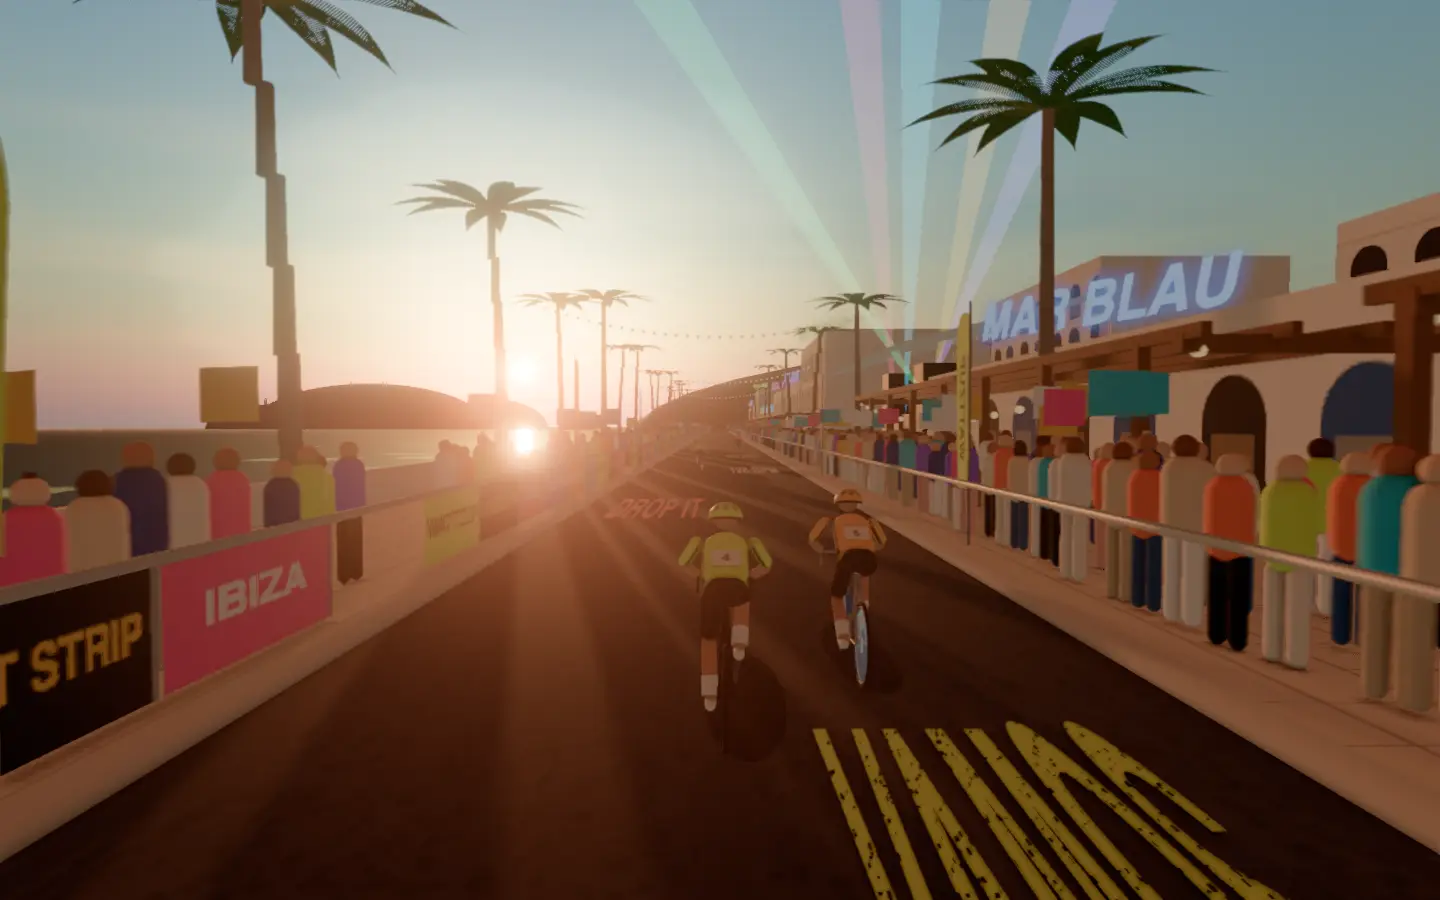
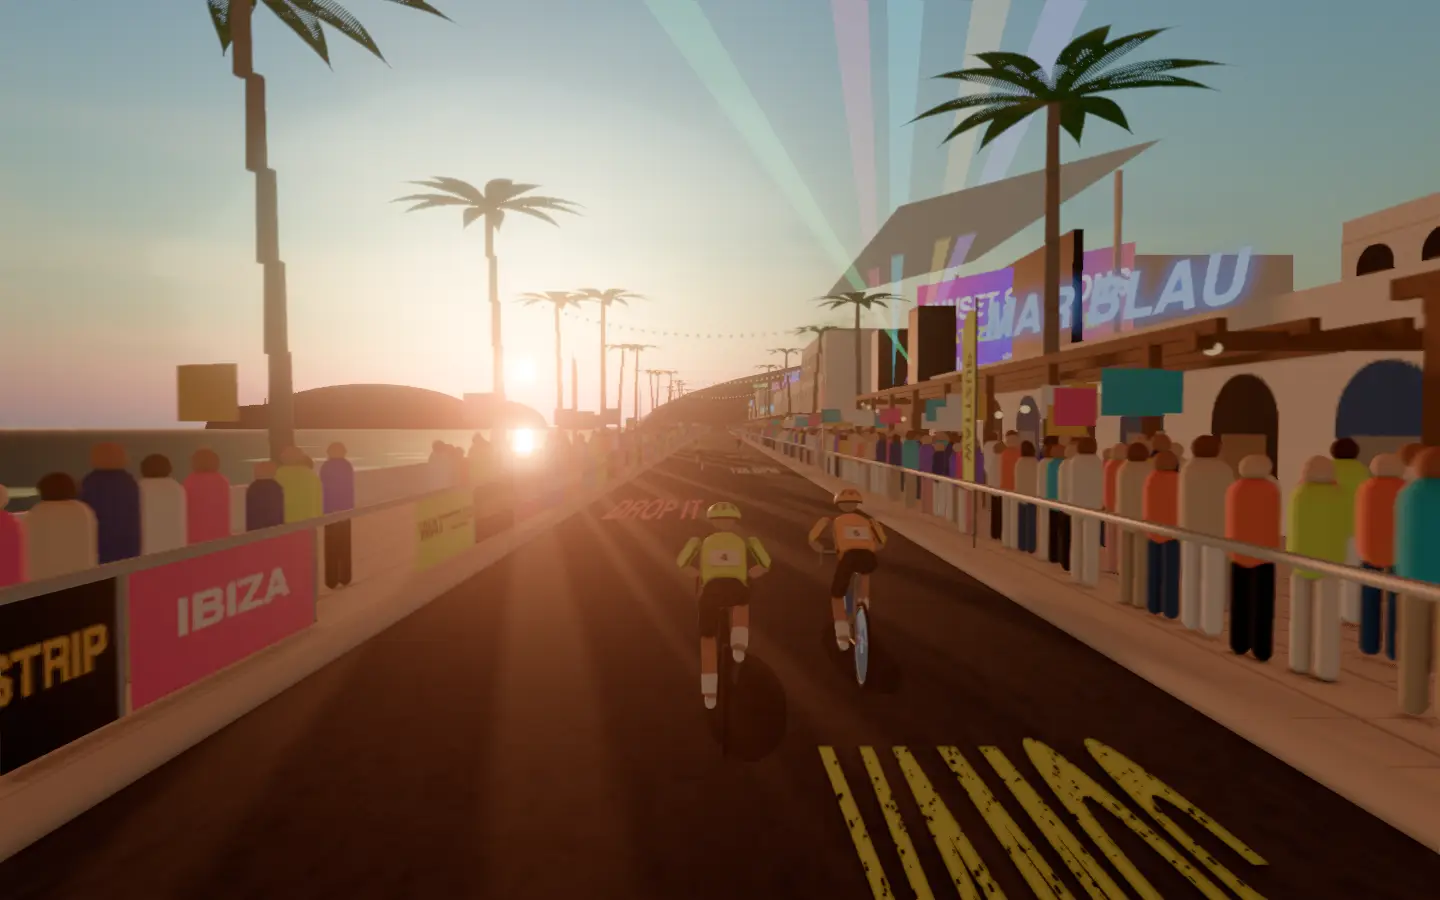
Raise Ibiza's DJ stage over the crowd with its screen

diff --git a/frontend/projects/wattzup/src/app/core/world-ibiza.ts b/frontend/projects/wattzup/src/app/core/world-ibiza.ts
@@ -408,10 +408,12 @@ export class IbizaStreet implements SceneStreet {
     const deck = this.material({ color: 0x8a6440, roughness: 0.8 });
     const black = this.material({ color: 0x18181c, roughness: 0.6 });
     const white = this.material({ color: 0xf6f0e6, roughness: 0.8 });
-    b.box(deck, [12, 1.6, 30], [6, 0.8, 0]);
-    b.box(black, [2, 1.2, 5], [4, 2.2, 0]);
-    for (const z of [-5, 5]) b.box(black, [2.2, 4.4, 2.2], [4, 3.8, z]);
-    for (const z of [-14, 14]) b.box(white, [0.3, 7, 0.3], [11, 5, z]);
+    // A stage raised over the crowd's heads, so the decks show from the road.
+    b.box(deck, [12, 3.4, 30], [6, 1.7, 0]);
+    b.box(black, [2, 1.2, 6], [3, 4, 0]);
+    for (const z of [-6, 6]) b.box(black, [2.4, 6, 2.4], [3.4, 6.4, z]);
+    for (const z of [-14, 14]) b.box(white, [0.3, 12, 0.3], [11, 9.4, z]);
+    b.box(black, [0.6, 9, 19], [11, 9, 0]);
     const g = b.build(this.disposables);
     const sail = new Mesh(
       new PlaneGeometry(14, 30),
@@ -419,19 +421,28 @@ export class IbizaStreet implements SceneStreet {
     );
     this.disposables.push(sail.geometry);
     sail.rotation.set(-Math.PI / 2, -0.25, 0);
-    sail.position.set(6, 8, 0);
+    sail.position.set(6, 15, 0);
     g.add(sail);
     // The DJ, arms up.
     const dj = new Mesh(new SphereGeometry(0.4, 10, 8), this.material({ color: 0xd9a17c }));
     this.disposables.push(dj.geometry);
-    dj.position.set(5.6, 4.2, 0);
+    dj.position.set(4.6, 6, 0);
     const body = new Mesh(
       new CylinderGeometry(0.35, 0.3, 1.4, 8),
       this.material({ color: 0xff4a9a }),
     );
     this.disposables.push(body.geometry);
-    body.position.set(5.6, 3.2, 0);
+    body.position.set(4.6, 5, 0);
     g.add(dj, body);
+    // The screen behind the DJ, the session's name glowing over a pulse of colour.
+    const screen = new Mesh(
+      new PlaneGeometry(18, 8.4),
+      new MeshBasicMaterial({ map: this.track(screenTexture()), toneMapped: false }),
+    );
+    this.disposables.push(screen.geometry, screen.material as MeshBasicMaterial);
+    screen.rotation.y = -Math.PI / 2 + 0.55;
+    screen.position.set(10.6, 9, 0);
+    g.add(screen);
     // The beams: long open cones of coloured light, from the decks up into the sky.
     const cone = new ConeGeometry(3.2, 70, 16, 1, true);
     cone.translate(0, -35, 0);
@@ -449,7 +460,7 @@ export class IbizaStreet implements SceneStreet {
       });
       this.disposables.push(material);
       const beam = new Mesh(cone, material);
-      beam.position.set(4, 2.4, (i - 2) * 3);
+      beam.position.set(3, 4.6, (i - 2) * 3);
       g.add(beam);
       this.beams.push(beam);
     });
@@ -745,5 +756,30 @@ function glitterTexture(): CanvasTexture {
       g.fillStyle = `rgba(255,${190 + random() * 50},${100 + random() * 60},${0.15 + random() * 0.45})`;
       g.fillRect(x - 6, y, 4 + random() * 12, 1.5);
     }
+  });
+}
+
+/** The DJ's screen: SUNSET SESSIONS over a pulse of colour and the beat's waveform. */
+function screenTexture(): CanvasTexture {
+  return canvasTexture(512, 240, (g) => {
+    const sky = g.createLinearGradient(0, 0, 512, 240);
+    sky.addColorStop(0, '#ff3a9a');
+    sky.addColorStop(0.5, '#8a3aff');
+    sky.addColorStop(1, '#ff8a3a');
+    g.fillStyle = sky;
+    g.fillRect(0, 0, 512, 240);
+    g.fillStyle = 'rgba(255,255,255,0.9)';
+    for (let x = 8; x < 504; x += 8) {
+      const h = 8 + Math.abs(Math.sin(x * 0.07) * Math.cos(x * 0.023)) * 60;
+      g.fillRect(x, 200 - h / 2, 4, h);
+    }
+    g.textAlign = 'center';
+    g.textBaseline = 'middle';
+    g.fillStyle = '#ffffff';
+    g.font = 'bold italic 64px sans-serif';
+    g.fillText('SUNSET SESSIONS', 256, 70, 490);
+    g.fillStyle = '#d7ff3a';
+    g.font = 'bold 40px sans-serif';
+    g.fillText('WATTZUP · 128 BPM', 256, 128, 470);
   });
 }

diff --git a/docs/class-worlds.md b/docs/class-worlds.md
@@ -49,7 +49,7 @@ Every class in `frontend/public/classes.json`, with its World Ride scene. Render
 | 43 | Non-Stop Sprinting | Monaco Street Circuit | 80% | Port Hercule glitters under a Riviera sun on race weekend, superyachts moored along the quay beside the catch fences and packed grandstands of the street circuit while the pastel town climbs its hill to the Casino. The five-minute warm-up rolls along the harbour front, each sprint from fifteen seconds to a minute and a half bursts between the red and white kerbs past the yachts, and the recoveries spin easy with the Casino's copper towers ahead. |
 | 44 | In & Out of the Saddle Hill Climb Reps | Mont Ventoux | 70% | Bare white limestone in the mistral; stand and sit up the Giant of Provence. |
 | 45 | Ride to the Beat | Mardi Gras, New Orleans (concept) |  | Brass bands and bead-throwing floats on St. Charles Avenue; pedal to the parade's beat. |
-| 46 | Intervals to the Beat | Ibiza Sunset Strip | 72% | The sun sinks into the sea off Sant Antoni beside the island of Conillera, whitewashed beach clubs lining the strip with their neon names, palms and pergola terraces as a DJ sweeps light beams over the dancing crowd under festoon lights. The warm-up cruises the waterfront under the opening set, each effort from fifteen seconds to a minute and a quarter drops with the bass past the clubs and the DJ terrace, and the recoveries float easy along the promenade toward the sunset. |
+| 46 | Intervals to the Beat | Ibiza Sunset Strip | 74% | The sun sinks into the sea off Sant Antoni beside the island of Conillera, whitewashed beach clubs lining the strip with their neon names, palms and pergola terraces as a DJ sweeps light beams over the dancing crowd under festoon lights. The warm-up cruises the waterfront under the opening set, each effort from fifteen seconds to a minute and a quarter drops with the bass past the clubs and the DJ terrace, and the recoveries float easy along the promenade toward the sunset. |
 | 47 | 20 Minute Crit Sprints | Chicago Loop Crit | 76% | Downtown streets beneath the L tracks; sprint every corner of a city criterium. |
 | 48 | High Cadence Sprints | Victoria Harbour (concept) |  | Hong Kong's neon skyline and Star Ferries; spin fast along the harbourfront promenade. |
 | 49 | 20 Minutes to Work on Your Cadence | Strade Bianche (concept) |  | White gravel roads between cypresses and Tuscan hill towns near Siena. |

diff --git a/docs/detailed-designs/world-ride/draw-class-scene/README.md b/docs/detailed-designs/world-ride/draw-class-scene/README.md
@@ -462,7 +462,7 @@ None.
   - the sunset crowd in white linen, beachwear and neon (the shared crowd), packed in front of the clubs and a single loose row on the promenade so the sea shows between them;
   - on the left the promenade's pale paving out to a low white seawall 9 m off the crown, the kit's palms every 13 m, the limestone rocks below and the sea, violet blue with gold and pink glinting on it, out to the horizon;
   - on the right, 10 m off the crown, the beach clubs: whitewashed cubes of one to three floors with arched openings and blue doors, a parapet round the roof terrace, a pergola terrace in front strung with warm bulbs, each club's neon name on its roof turned a little toward the rider (SOL Y MAR, LA PUESTA, OCASO, CALA BEAT, MAR BLAU, ATARDECER, WATTZUP CLUB, BLUE BAY), palms between them and a second row of whitewashed blocks behind;
-  - the DJ terrace 55 m ahead on the right in the opening view: a raised deck under a white sail canopy, the DJ at the decks between two stacks of speakers, and five coloured beams sweeping up into the dusk on the beat (`setTime` moves them, so they hold still for reduced motion);
+  - the DJ terrace 55 m ahead on the right in the opening view: a stage raised 3.4 m over the crowd's heads under a white sail canopy 15 m up, the DJ at the decks between two tall stacks of speakers, a screen behind them turned toward the rider with SUNSET SESSIONS and WATTZUP · 128 BPM over a pulse of colour and the beat's waveform, and five coloured beams sweeping up into the dusk on the beat (`setTime` moves them, so they hold still for reduced motion);
   - ahead and left the sunset: the sky's own sun low over the sea with its glare on the water, a path of gold across the water from under it toward the shore, the island of Conillera long and dark against the glow with its lighthouse and islets, and the headland of the bay ahead and right with its whitewashed town, all hazed by hand. Everything along the strip is hidden past 280 m.
 
   `lay`, `place` and `setTime` recycle it along a 500 m loop.
